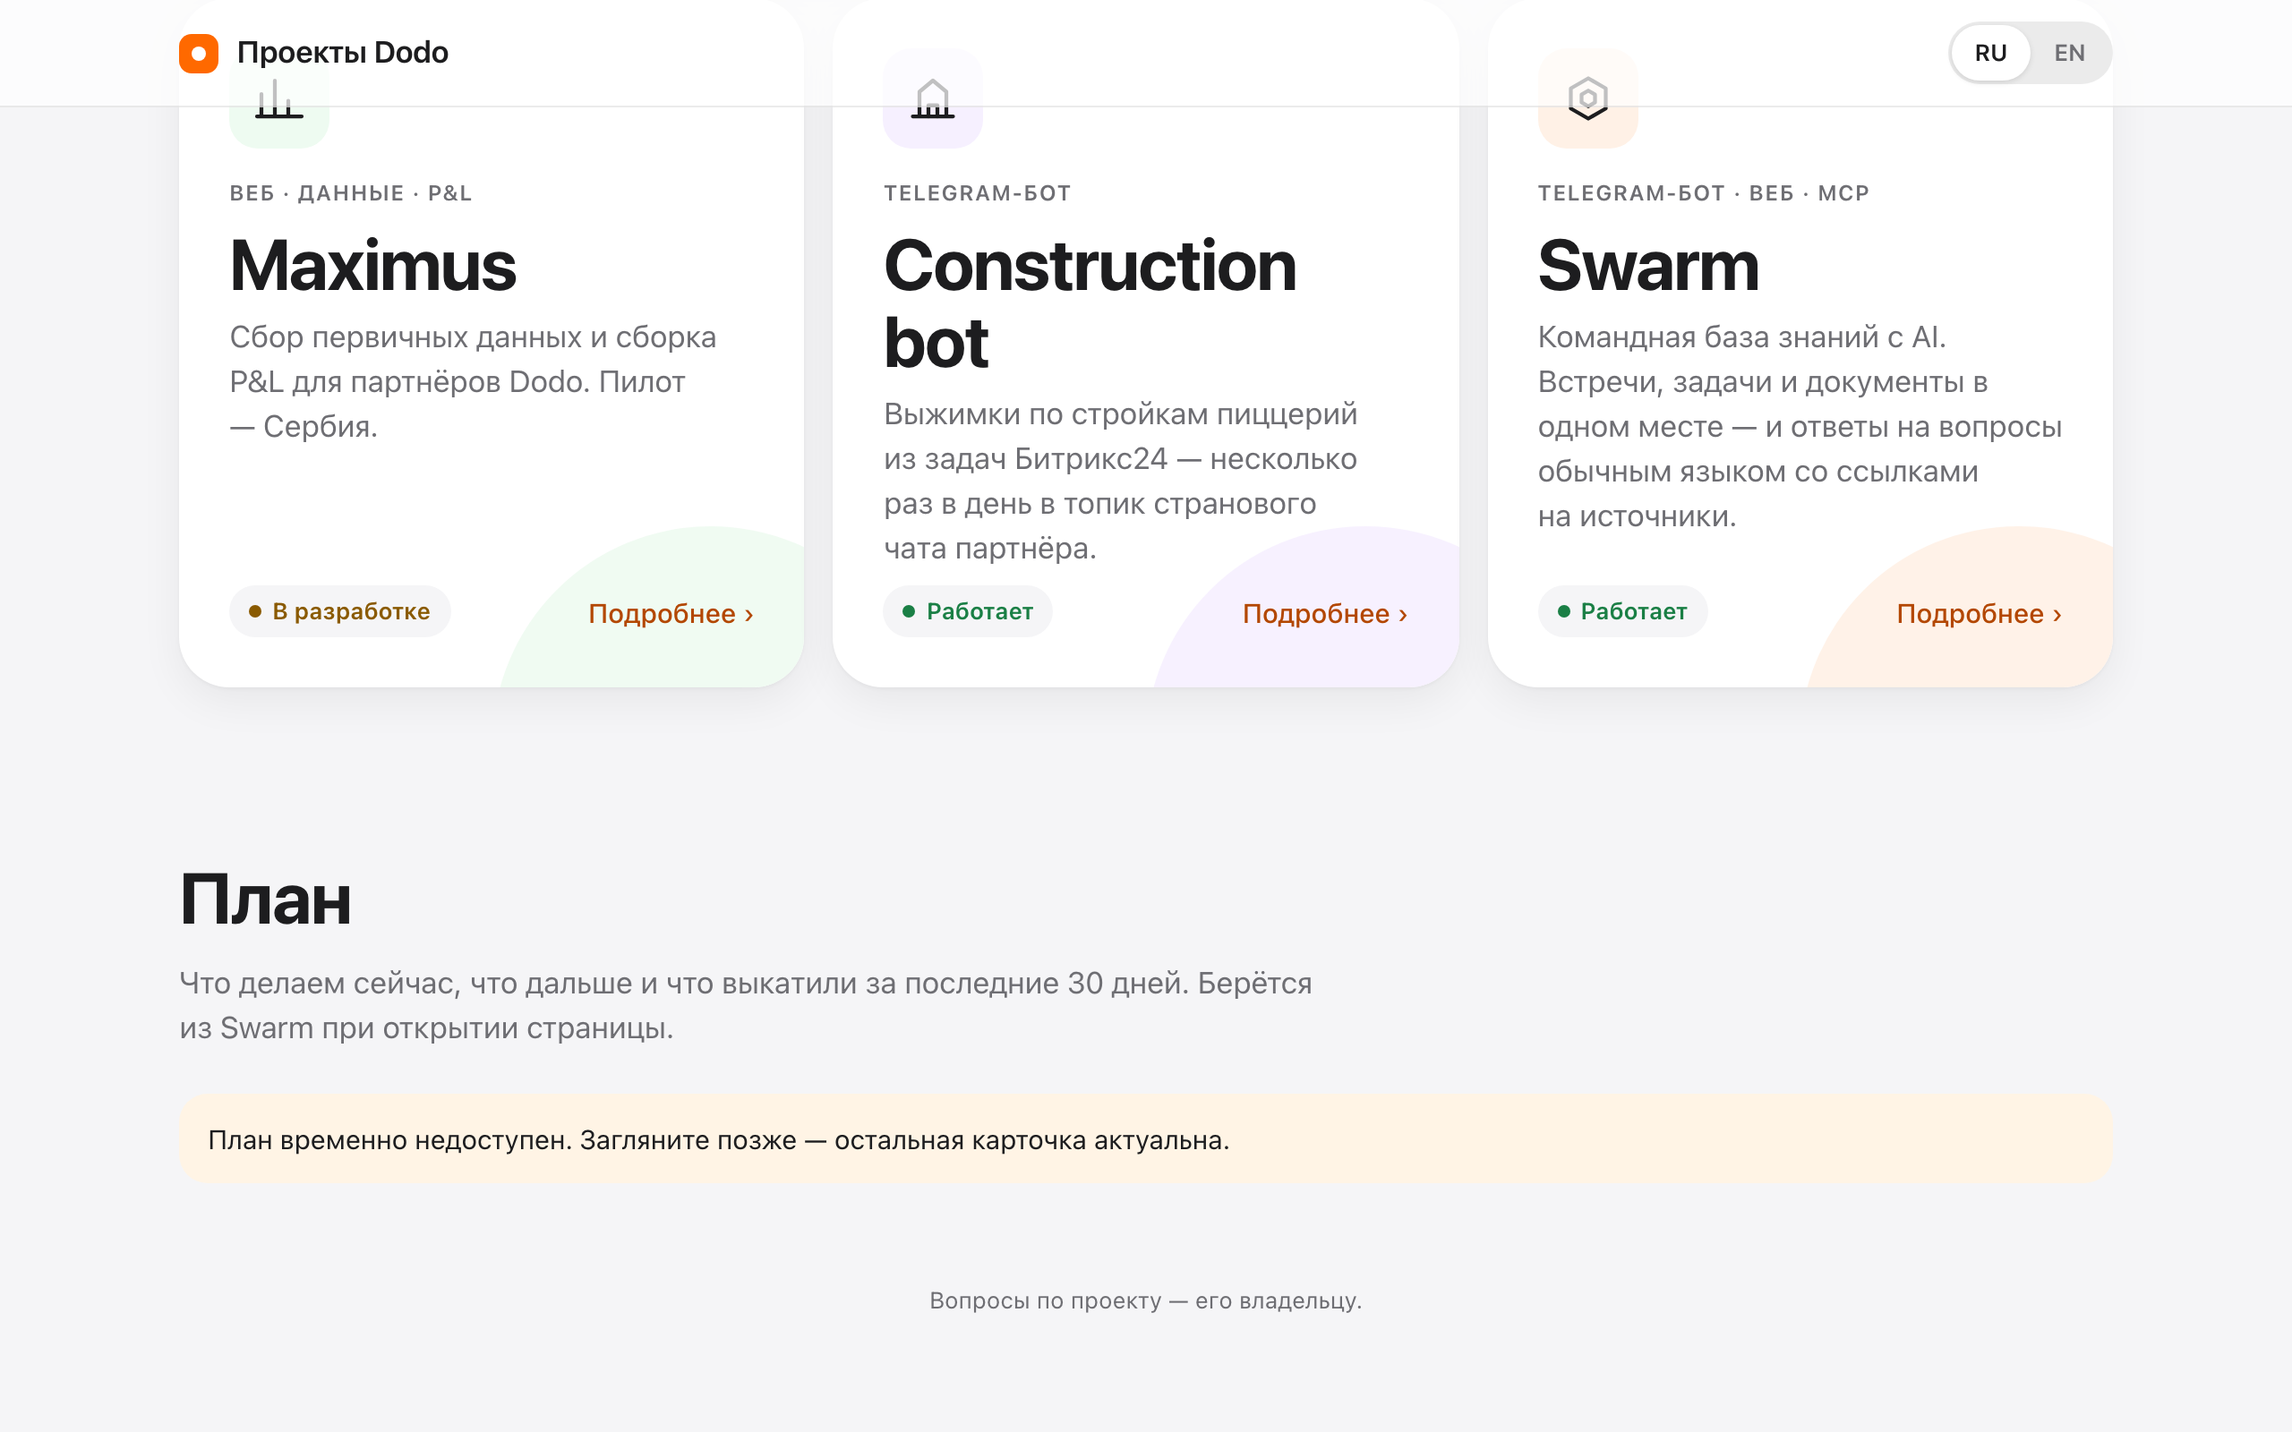
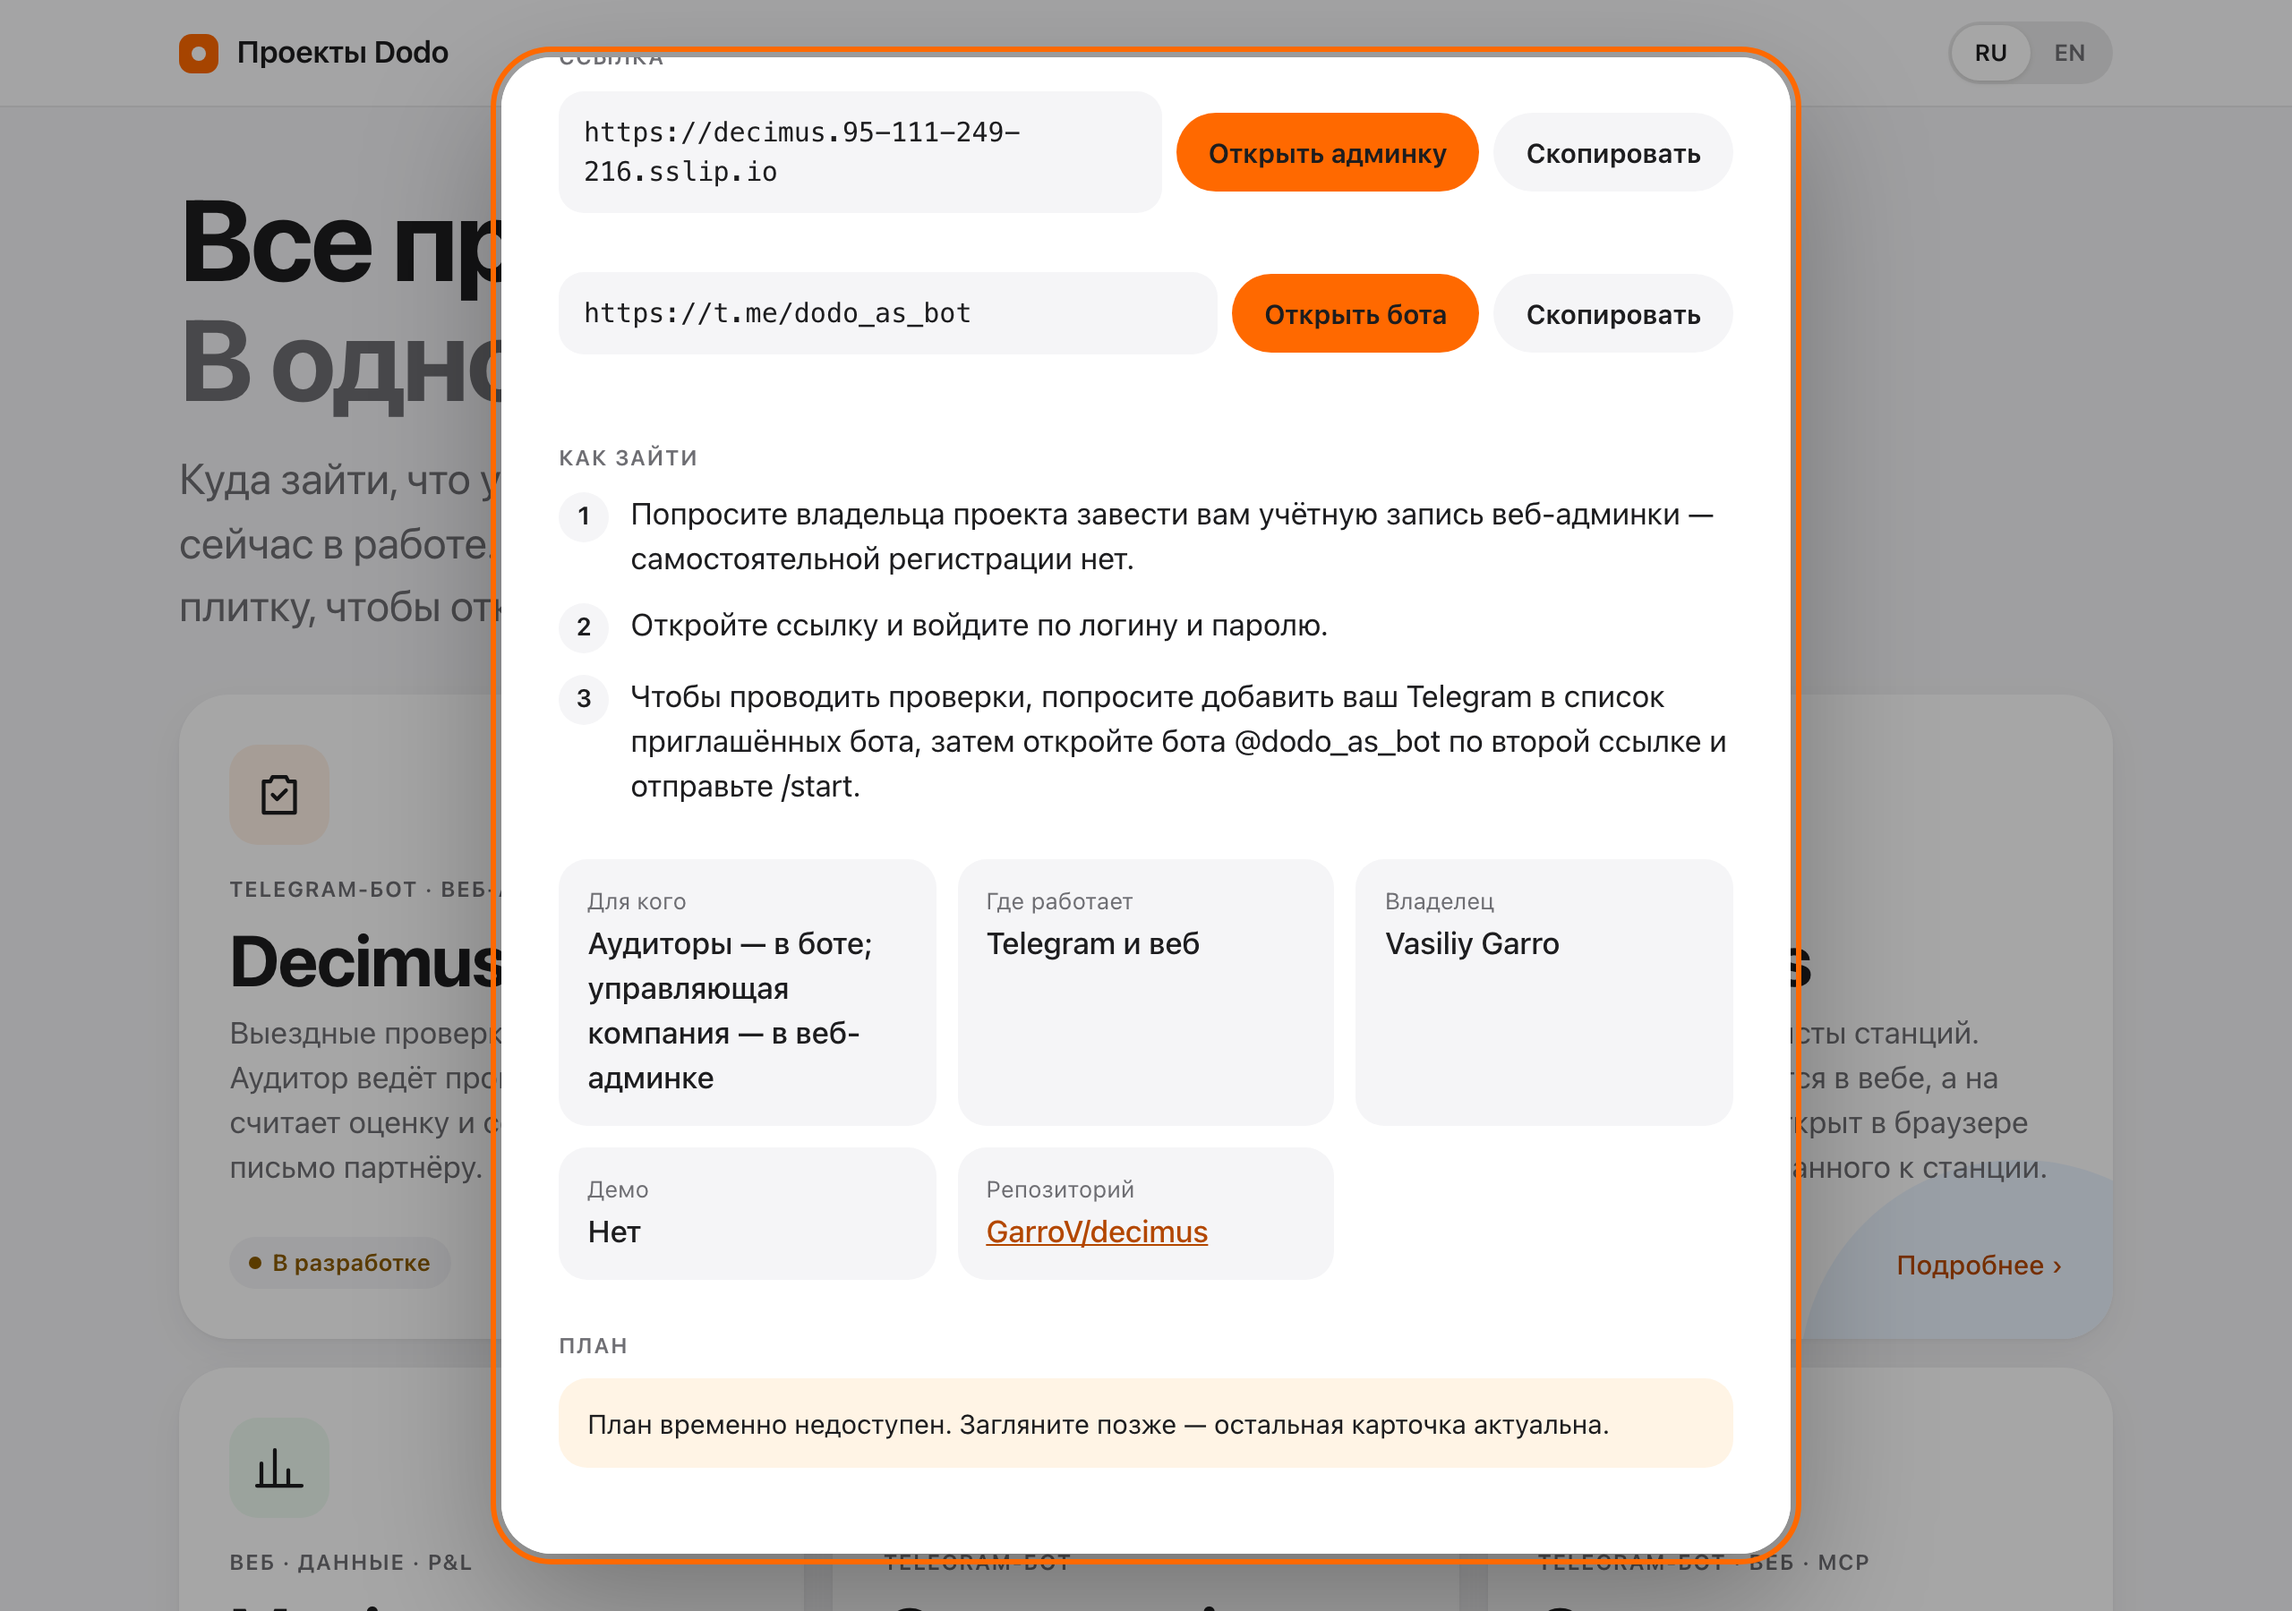
feat: план проекта только в его карточке, общей ленты на главной нет
Решение владельца 29.09.2026: человек открывает карточку и видит там всю
информацию и ближайшие планы. С главной снята секция «План». Скрипт и
словари больше не знают об общей ленте. Тесты, смоук живого сайта и
скриншоты проверяют план внутри карточек; смоук теперь требует,
чтобы план был ready.

diff --git a/tests/e2e/hub.spec.ts b/tests/e2e/hub.spec.ts
@@ -20,7 +20,9 @@ test.describe('с фикстурой плана', () => {
     await expect(tiles).toHaveCount(PROJECTS.length);
     for (const slug of PROJECTS) await expect(page.locator(`#tile-${slug}`)).toBeVisible();
     await expect(page.locator('meta[name="robots"]')).toHaveAttribute('content', /noindex/);
-    await expect(page.locator('[data-roadmap="all"]')).toHaveAttribute('data-state', 'ready');
+    await expect(page.locator('[data-roadmap="decimus"]')).toHaveAttribute('data-state', 'ready');
+    // Общей ленты на главной нет: план живёт только в карточке проекта.
+    await expect(page.locator('[data-roadmap="all"]')).toHaveCount(0);
     // Ни ошибок скрипта, ни нарушений CSP.
     expect(problems).toEqual([]);
   });
@@ -102,20 +104,29 @@ test.describe('с фикстурой плана', () => {
     await expect(page.locator('h1')).toContainText(ru.heroTitle);
   });
 
-  test('лента: в работе, дальше, выкачено за 30 дней', async ({ page }) => {
+  test('план в карточке: в работе, дальше, выкачено за 30 дней — только своего проекта', async ({ page }) => {
     await page.goto('./');
-    const feed = page.locator('[data-roadmap="all"]');
-    await expect(feed).toHaveAttribute('data-state', 'ready');
-    await expect(feed.locator('[data-group="inProgress"]')).toContainText(FIXTURE_TITLES.decimusInProgress);
-    await expect(feed.locator('[data-group="inProgress"]')).toContainText(FIXTURE_TITLES.meridiusInProgress);
-    await expect(feed.locator('[data-group="planned"]')).toContainText(FIXTURE_TITLES.maximusPlanned);
-    await expect(feed.locator('[data-group="shipped"]')).toContainText(FIXTURE_TITLES.decimusShipped);
-    await expect(feed).not.toContainText(FIXTURE_TITLES.decimusShippedOld);
-
     await page.locator('#tile-decimus').click();
-    const cardPlan = page.locator('[data-roadmap="decimus"]');
-    await expect(cardPlan).toContainText(FIXTURE_TITLES.decimusPlanned);
-    await expect(cardPlan).not.toContainText(FIXTURE_TITLES.meridiusInProgress);
+    const decimus = page.locator('#card-decimus [data-roadmap="decimus"]');
+    await expect(decimus).toHaveAttribute('data-state', 'ready');
+    await expect(decimus).toBeVisible();
+    await expect(decimus.locator('[data-group="inProgress"]')).toContainText(FIXTURE_TITLES.decimusInProgress);
+    await expect(decimus.locator('[data-group="planned"]')).toContainText(FIXTURE_TITLES.decimusPlanned);
+    await expect(decimus.locator('[data-group="shipped"]')).toContainText(FIXTURE_TITLES.decimusShipped);
+    await expect(decimus).not.toContainText(FIXTURE_TITLES.decimusShippedOld);
+    await expect(decimus).not.toContainText(FIXTURE_TITLES.meridiusInProgress);
+    await page.keyboard.press('Escape');
+
+    await page.locator('#tile-meridius').click();
+    await expect(page.locator('#card-meridius [data-roadmap="meridius"] [data-group="inProgress"]')).toContainText(
+      FIXTURE_TITLES.meridiusInProgress,
+    );
+    await page.keyboard.press('Escape');
+
+    await page.locator('#tile-maximus').click();
+    await expect(page.locator('#card-maximus [data-roadmap="maximus"] [data-group="planned"]')).toContainText(
+      FIXTURE_TITLES.maximusPlanned,
+    );
   });
 
   test('bento без дыр: каждый ряд плиток заполнен до края', async ({ page }) => {
@@ -174,13 +185,11 @@ test.describe('эндпоинт плана недоступен', () => {
       page.on('pageerror', (e) => errors.push(e.message));
       await serveOutage(page, kind);
       await page.goto('./');
-      const feed = page.locator('[data-roadmap="all"]');
-      await expect(feed.locator('[data-plan-status]')).toHaveText(ru.planUnavailable);
-      await expect(feed).toHaveAttribute('data-state', 'unavailable');
       await expect(page.locator('a.tile')).toHaveCount(PROJECTS.length);
 
       await page.locator('#tile-decimus').click();
       await expect(page.locator('[data-roadmap="decimus"] [data-plan-status]')).toHaveText(ru.planUnavailable);
+      await expect(page.locator('[data-roadmap="decimus"]')).toHaveAttribute('data-state', 'unavailable');
       await expect(page.locator('#card-decimus [data-link]')).toBeVisible();
       expect(errors).toEqual([]);
     });
@@ -189,6 +198,7 @@ test.describe('эндпоинт плана недоступен', () => {
   test('английская версия тоже честно говорит о недоступности', async ({ page }) => {
     await serveOutage(page, 'network');
     await page.goto('./en/');
-    await expect(page.locator('[data-roadmap="all"] [data-plan-status]')).toHaveText(en.planUnavailable);
+    await page.locator('#tile-decimus').click();
+    await expect(page.locator('[data-roadmap="decimus"] [data-plan-status]')).toHaveText(en.planUnavailable);
   });
 });

diff --git a/src/scripts/hub.ts b/src/scripts/hub.ts
@@ -3,7 +3,6 @@
 import { fetchRoadmap, groupItems, parseRoadmap, type Grouped, type RoadmapResult } from '../lib/roadmap';
 import { readConfig, type HubConfig } from './config';
 
-const PLANNED_LIMIT_FEED = 3;
 const PLANNED_LIMIT_CARD = 5;
 
 const config = readConfig();
@@ -138,15 +137,13 @@ function renderPlan(result: RoadmapResult & { ok: true }, containers: readonly H
 
   for (const c of containers) {
     const slug = c.dataset.roadmap;
-    const targets = config.projects.filter((p) => p.swarmId && (slug === 'all' || p.slug === slug));
-    const limit = slug === 'all' ? PLANNED_LIMIT_FEED : PLANNED_LIMIT_CARD;
+    const targets = config.projects.filter((p) => p.swarmId && p.slug === slug);
     const rows: Record<GroupKey, Row[]> = { inProgress: [], planned: [], shipped: [] };
     for (const p of targets) {
-      const grouped = groupItems(byId.get(p.swarmId!.toLowerCase()) ?? [], now, limit);
+      const grouped = groupItems(byId.get(p.swarmId!.toLowerCase()) ?? [], now, PLANNED_LIMIT_CARD);
       for (const key of GROUPS) {
         for (const item of grouped[key]) {
           rows[key].push({
-            projectName: slug === 'all' ? p.name : undefined,
             title: item.title,
             stage: stageText(key, item.due, item.shippedAt),
           });

diff --git a/src/i18n/ru.ts b/src/i18n/ru.ts
@@ -30,7 +30,6 @@ export const ru = {
   repoPrivate: 'Закрытый — доступ у владельца проекта',
   pending: 'Уточняется',
   planHeading: 'План',
-  planLead: 'Что делаем сейчас, что дальше и что выкатили за последние 30 дней. Берётся из Swarm при открытии страницы.',
   planInProgress: 'Сейчас в работе',
   planNext: 'Дальше',
   planShipped: 'Выкачено за 30 дней',

diff --git a/src/i18n/en.ts b/src/i18n/en.ts
@@ -30,7 +30,6 @@ export const en: Dict = {
   repoPrivate: 'Private — access via the project owner',
   pending: 'To be confirmed',
   planHeading: 'Roadmap',
-  planLead: 'What we’re doing now, what’s next, and what shipped in the last 30 days. Loaded from Swarm when you open the page.',
   planInProgress: 'In progress',
   planNext: 'Up next',
   planShipped: 'Shipped in 30 days',

diff --git a/docs/decisions.md b/docs/decisions.md
@@ -14,3 +14,6 @@
 | 28.09.2026 | Maximus: «демо было» — вход в демо ссылкой с ключом публикуется, он сделан для показа. Настоящих паролей не выкладываем. | Решение владельца; ключ в продукте — защита от случайных прохожих, а не секрет (README maximus, `DEMO_KEY`). Закрывает #2, #3. |
 | 28.09.2026 | В хаб добавлен Swarm (подпроект «Swarm Brain» доски «Vibe Coding»). | Решение владельца. |
 | 28.09.2026 | Ссылку на приватный репозиторий карточка не показывает. | `GarroV/construction_bot` стал приватным: коллеги получили бы 404. |
+
+## 29.09.2026 — план только в карточке проекта
+Владелец: «это надо завести в карточки проектов, не вниз. то есть человек проваливается в карточку и там видит всю инфу и ближайшие планы». Общая лента с главной снята, план каждого проекта — в его карточке.
